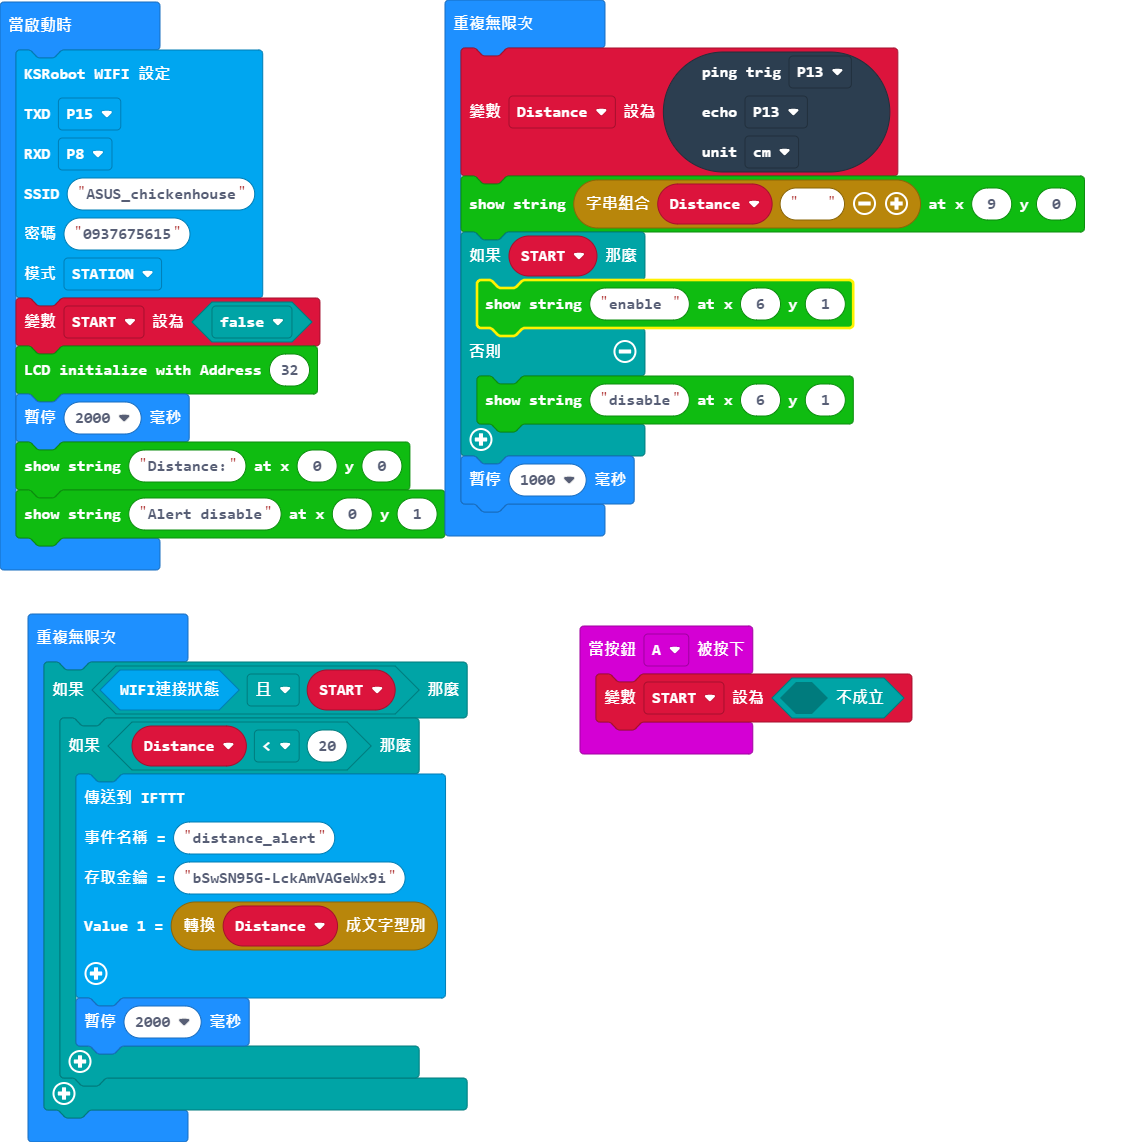
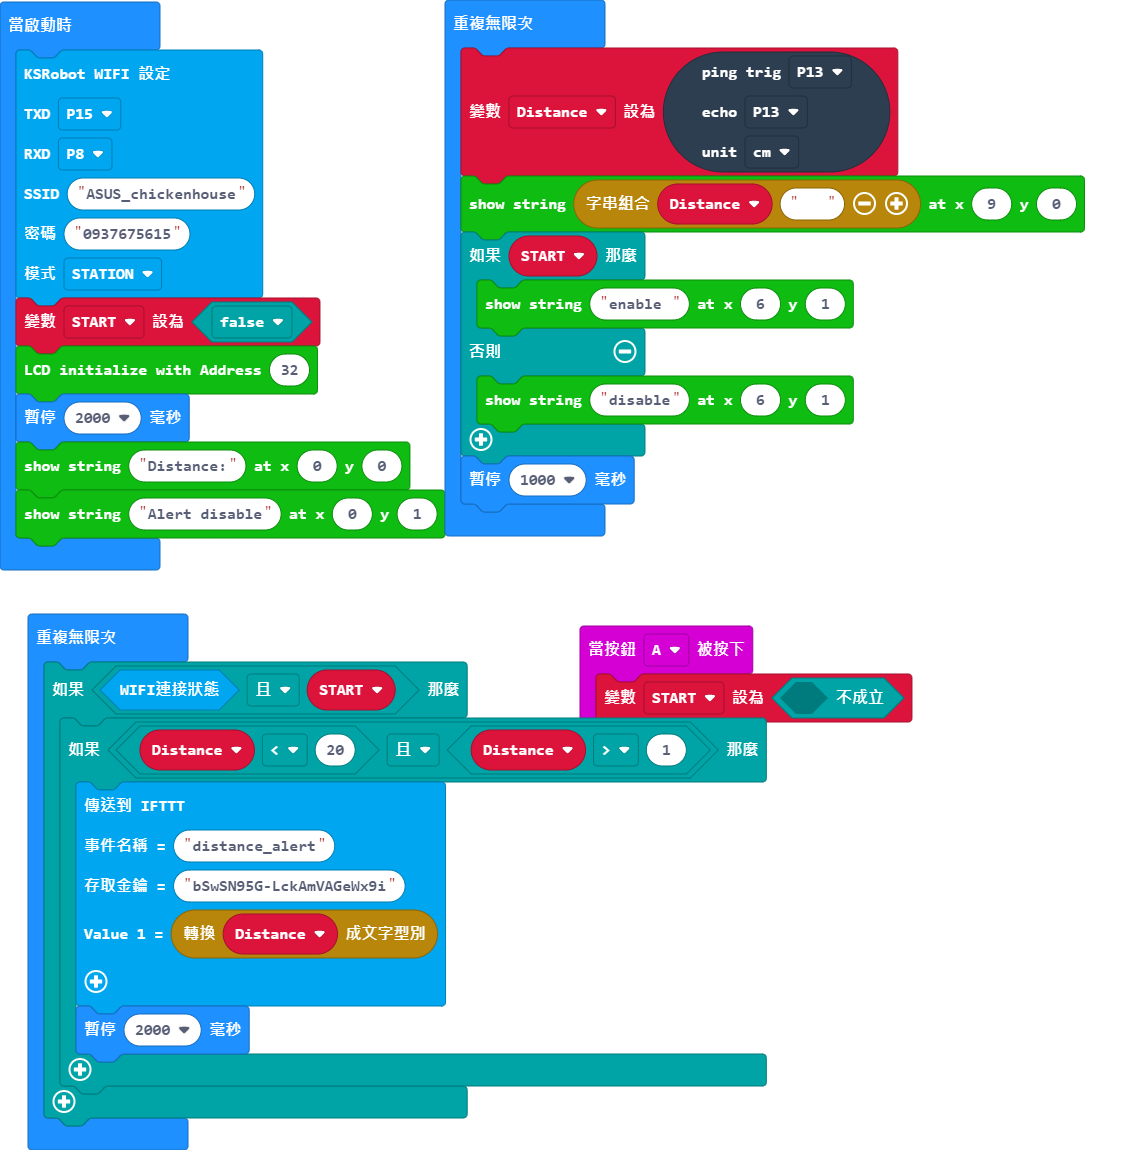
Update main.blocks, main.ts

diff --git a/main.ts b/main.ts
@@ -31,7 +31,7 @@ basic.forever(function () {
 })
 basic.forever(function () {
     if (KSRobot_IOT.Wifi_Connection() && START) {
-        if (Distance < 20) {
+        if (Distance < 20 && Distance > 1) {
             KSRobot_IOT.IFTTT_set(
             "distance_alert",
             "bSwSN95G-LckAmVAGeWx9i",
